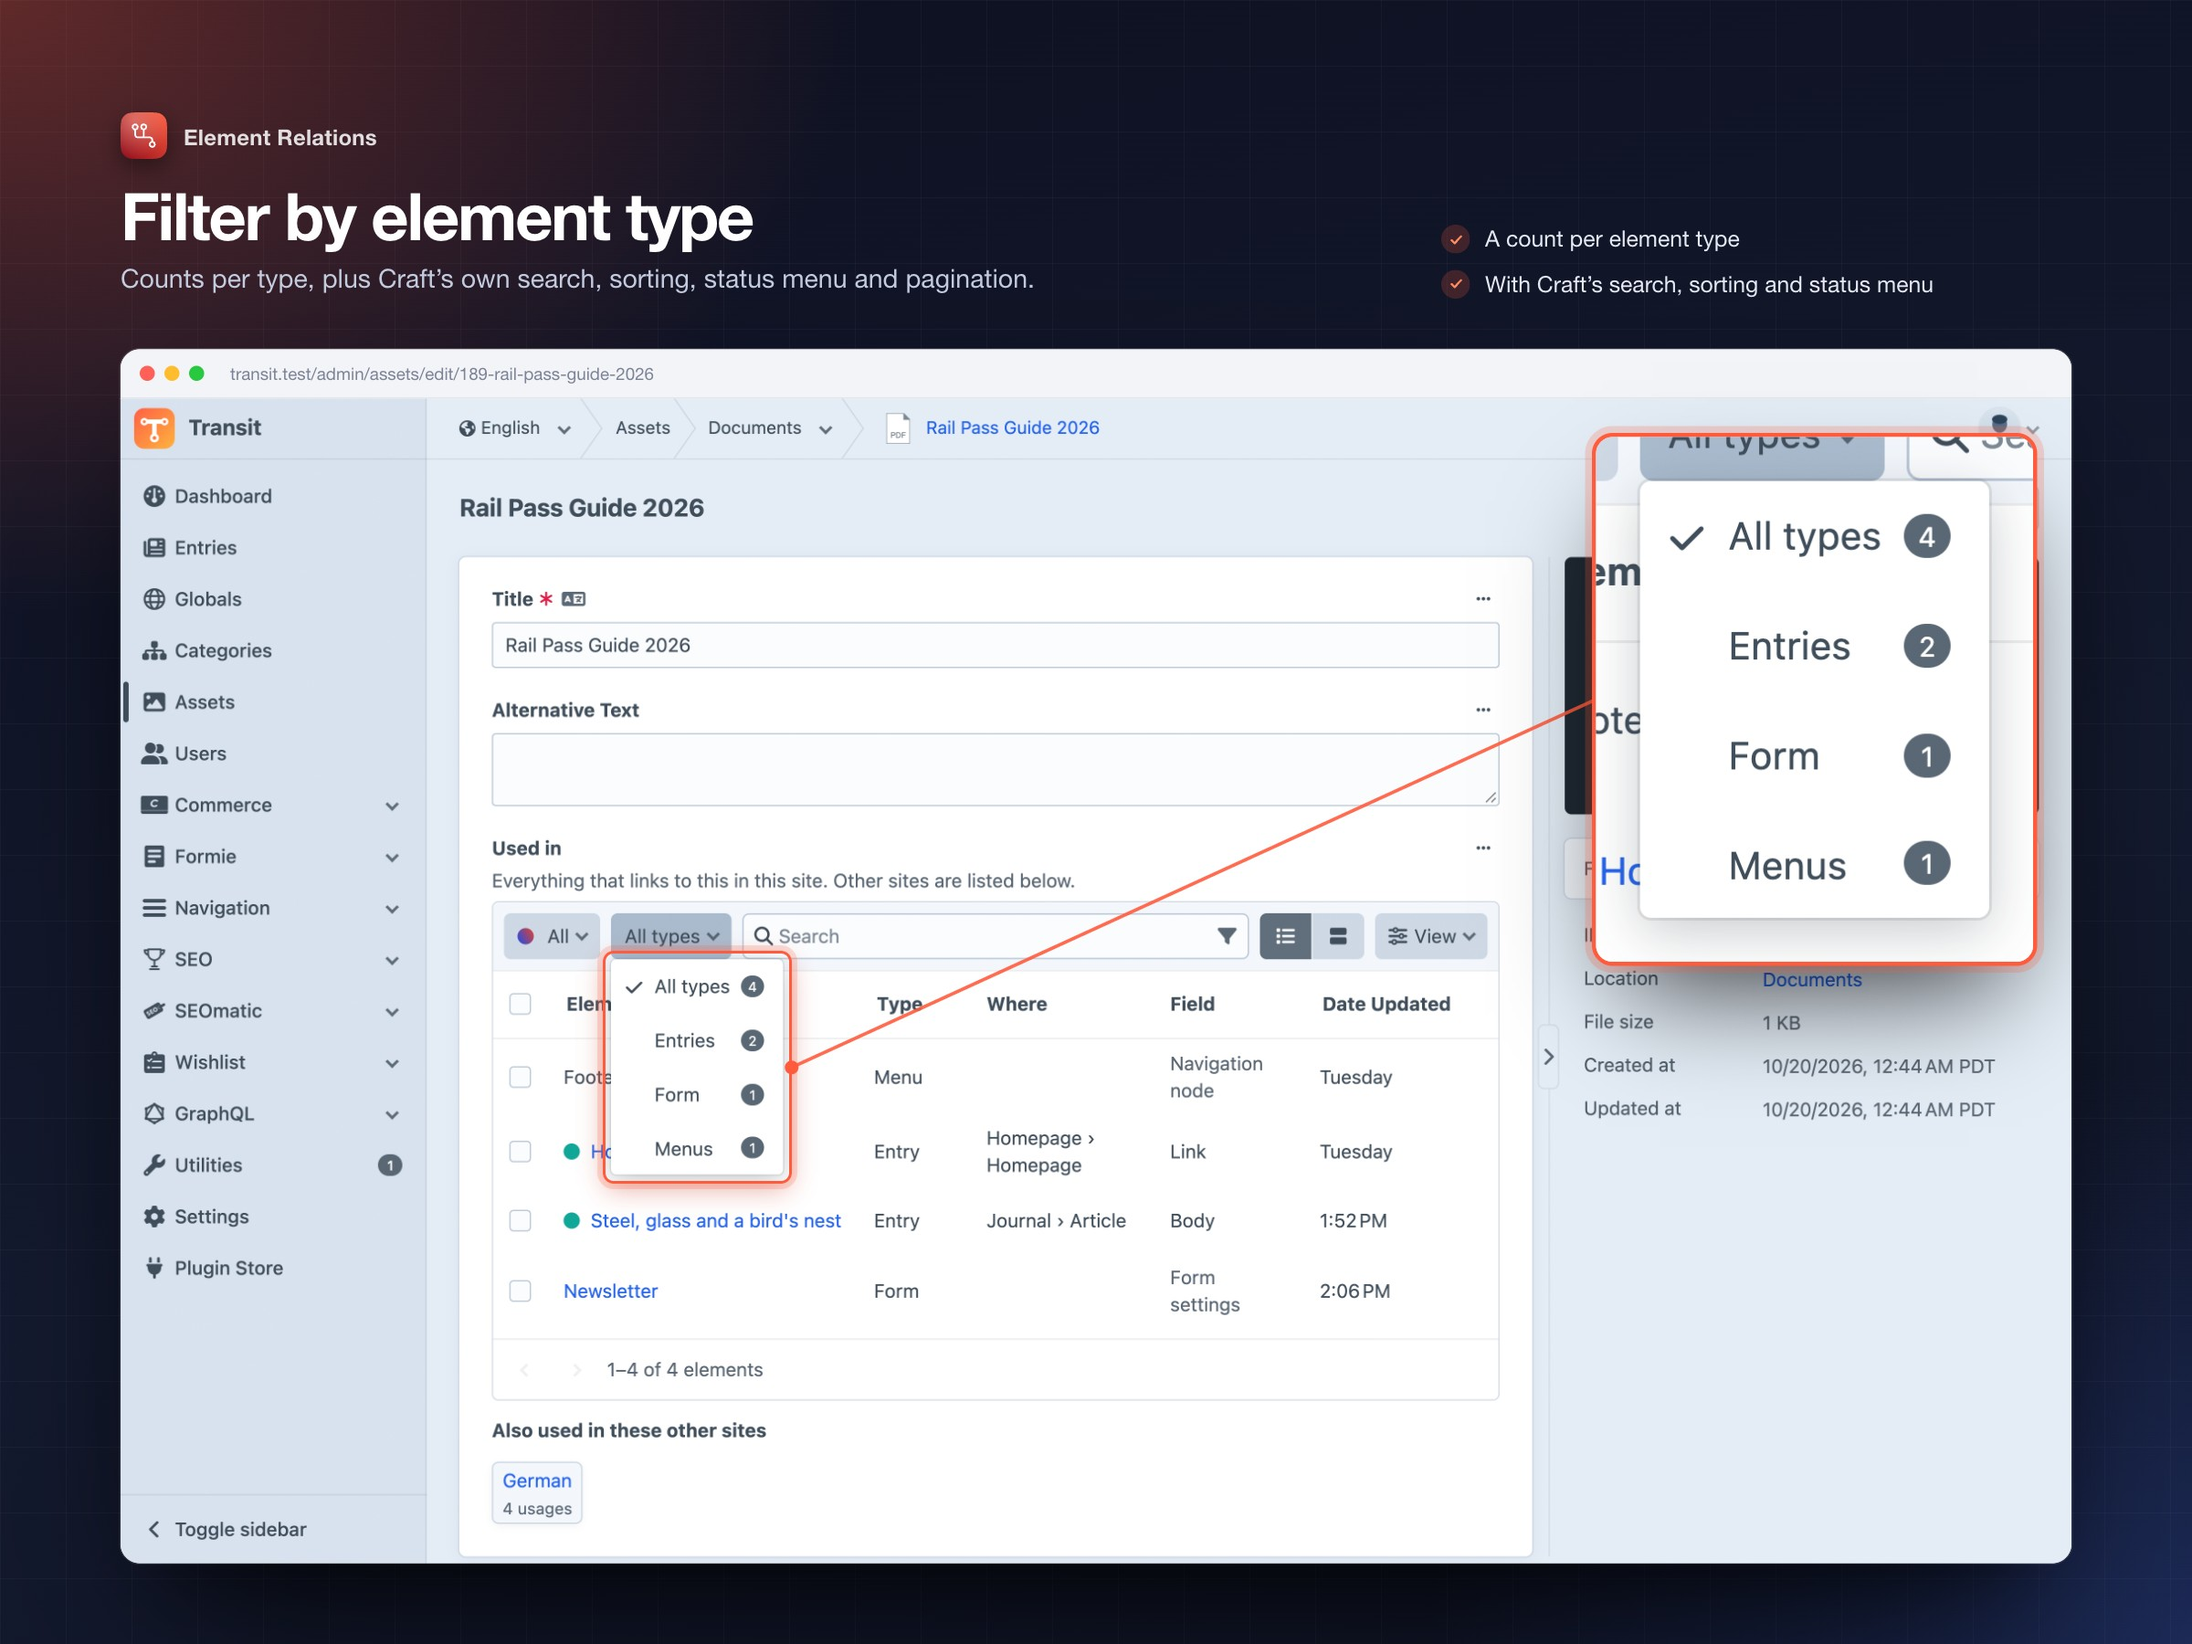
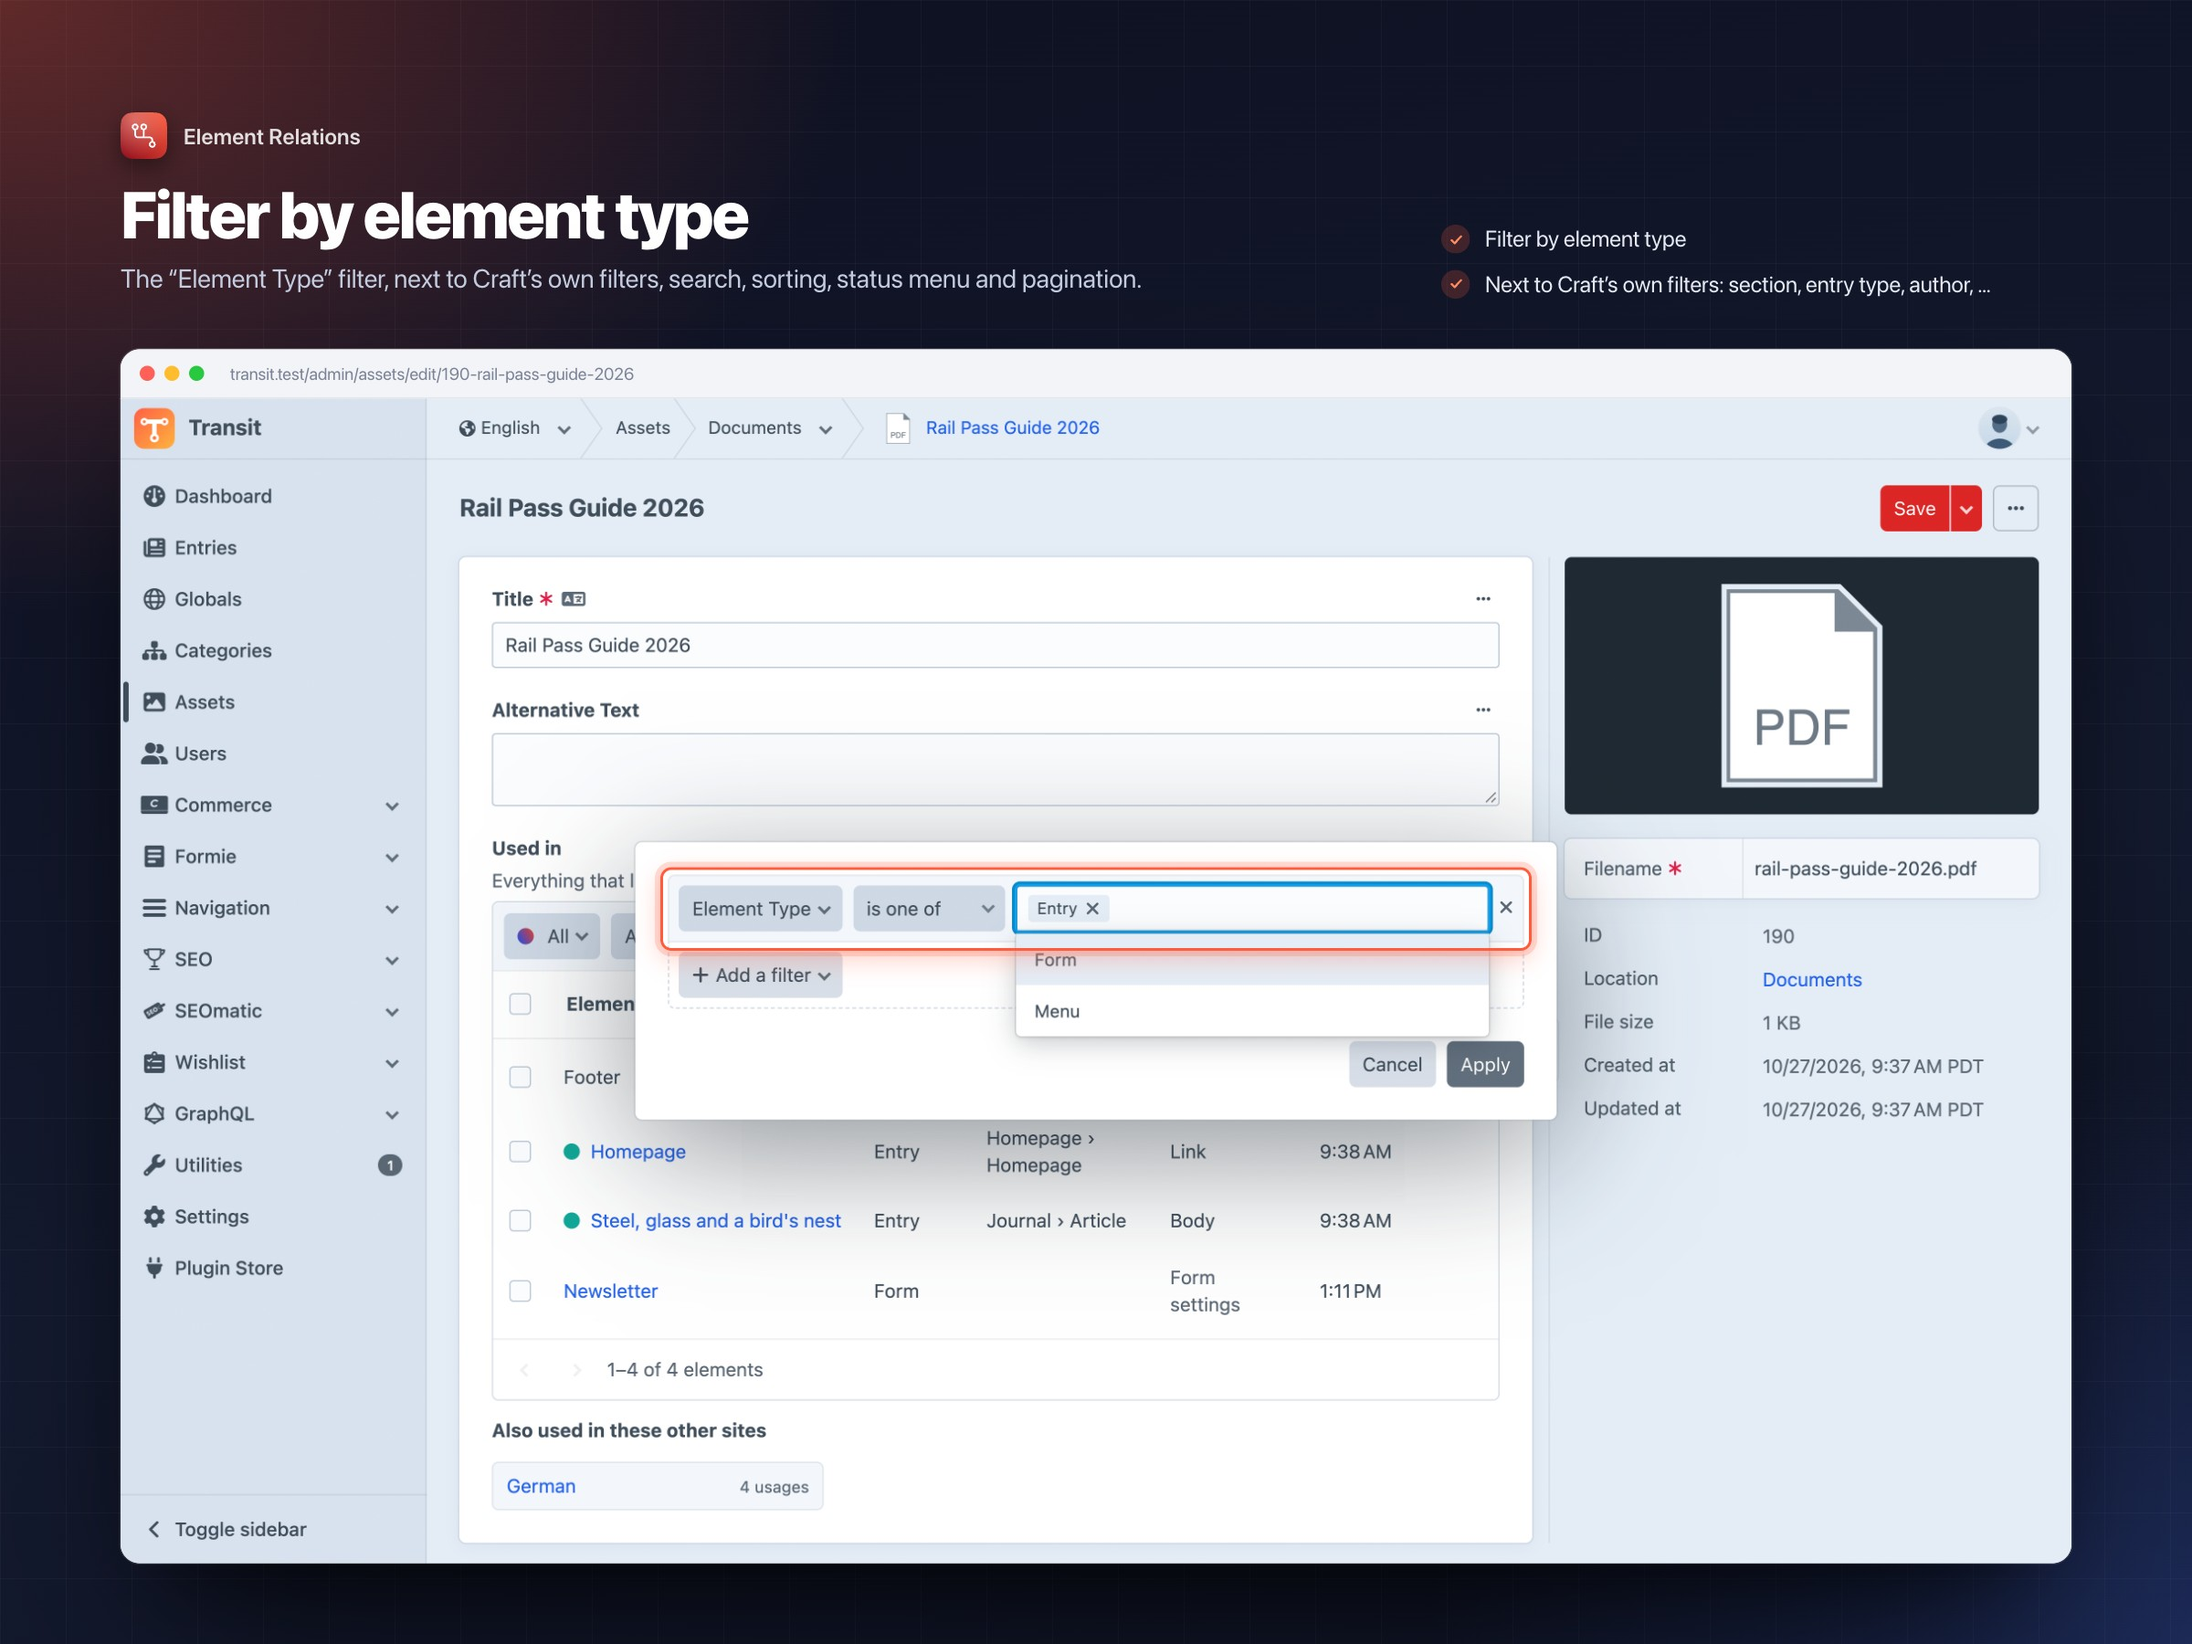
Element Type filter offers only the list's types, also after Craft's condition builder re-renders it; screenshot of the filter instead of the type dropdown

diff --git a/src/elements/conditions/UsageCondition.php b/src/elements/conditions/UsageCondition.php
@@ -48,6 +48,32 @@ class UsageCondition extends ElementCondition
         ],
     ];
 
+    /**
+     * The element types of the list (Usage::listedTypes() when the filter is first built). Kept in the condition's config,
+     * which Craft's condition builder carries through its own requests (adding a rule re-renders the filter without the
+     * list's parameters), so the rules offered and the Element Type options stay the list's.
+     * @var list<class-string<\craft\base\ElementInterface>>|null
+     */
+    public ?array $listedTypes = null;
+
+    public function init(): void
+    {
+        parent::init();
+        $this->listedTypes ??= Usage::listedTypes(); // when built; the builder's requests configure it from the config
+    }
+
+    /** @return list<class-string<\craft\base\ElementInterface>> */
+    public function getListedTypes(): array
+    {
+        return $this->listedTypes ?? [];
+    }
+
+    /** @return array<string, mixed> */
+    protected function config(): array
+    {
+        return parent::config() + ['listedTypes' => $this->getListedTypes()];
+    }
+
     /** Craft's group rules of categories and tags both set groupId; category and tag group ids overlap, so each goes to its own type. */
     public function modifyQuery(\craft\elements\db\ElementQueryInterface $query): void
     {
@@ -74,7 +100,7 @@ class UsageCondition extends ElementCondition
     {
         // the list's own base rule, and the element type (also when the list has only one)
         $rules = [UsesElementConditionRule::class, ElementTypeConditionRule::class, ...parent::selectableConditionRules()];
-        foreach (Usage::listedTypes() as $type) {
+        foreach ($this->getListedTypes() as $type) {
             foreach (self::RULES[$type] ?? [] as $rule) {
                 if (class_exists($rule) && !in_array($rule, $rules, true)) {
                     $rules[] = $rule;

diff --git a/dev/smoke/filter-menus.php b/dev/smoke/filter-menus.php
@@ -44,9 +44,13 @@ return function (array $ctx): void {
 
     // the filter's "Element Type" rule: the list's types as options, matching an element (also one hidden from the user)
     Usage::$listedTypes = [Entry::class, craft\elements\Asset::class];
-    $rule = new internetztube\elementRelations\elements\conditions\ElementTypeConditionRule(['operator' => 'in', 'values' => [Entry::class]]);
+    $condition = Usage::createCondition();
+    Usage::$listedTypes = null; // what Craft's condition builder knows when it re-renders the filter (adding a rule)
+    $rebuilt = Usage::createCondition();
+    Craft::configure($rebuilt, $condition->getBuilderConfig()); // the builder carries the condition's config along
+    $rule = $rebuilt->createConditionRule(['class' => internetztube\elementRelations\elements\conditions\ElementTypeConditionRule::class, 'operator' => 'in', 'values' => [Entry::class]]);
     $html = withWebRequest(fn() => $rule->getHtml());
     $asset = craft\elements\Asset::find()->one();
-    check(str_contains($html, 'Entry') && str_contains($html, 'Asset') && $rule->matchElement($b) && !$rule->matchElement($asset) && $rule->matchElement(internetztube\elementRelations\elements\RestrictedUsage::fromElement($b)), 'the Element Type rule offers the list\'s types and matches by type, also an element hidden from the user');
-    Usage::$listedTypes = null;
+    check(str_contains($html, 'Entry') && str_contains($html, 'Asset') && !str_contains($html, 'Category'), 'the Element Type rule offers only the list\'s types, also after the filter is re-rendered by Craft\'s condition builder');
+    check($rule->matchElement($b) && !$rule->matchElement($asset) && $rule->matchElement(internetztube\elementRelations\elements\RestrictedUsage::fromElement($b)), 'it matches by type, also an element hidden from the user');
 };

diff --git a/src/elements/conditions/ElementTypeConditionRule.php b/src/elements/conditions/ElementTypeConditionRule.php
@@ -32,13 +32,23 @@ class ElementTypeConditionRule extends BaseMultiSelectConditionRule implements E
     /** @return list<array{value: string, label: string}> */
     protected function options(): array
     {
-        return array_map(fn(string $type): array => ['value' => $type, 'label' => $type::displayName()], Usage::listedTypes());
+        return array_map(fn(string $type): array => ['value' => $type, 'label' => $type::displayName()], $this->listedTypes());
+    }
+
+    /**
+     * The list's types, from its filter (they survive the condition builder's own requests, see UsageCondition).
+     * @return list<class-string<ElementInterface>>
+     */
+    private function listedTypes(): array
+    {
+        $condition = $this->getCondition();
+        return $condition instanceof UsageCondition ? $condition->getListedTypes() : Usage::listedTypes();
     }
 
     public function modifyQuery(ElementQueryInterface $query): void
     {
         $values = $this->getValues();
-        $types = $this->operator === self::OPERATOR_NOT_IN ? array_values(array_diff(Usage::listedTypes(), $values)) : $values;
+        $types = $this->operator === self::OPERATOR_NOT_IN ? array_values(array_diff($this->listedTypes(), $values)) : $values;
         // no type left: nothing (an empty param would not filter at all)
         Craft::configure($query, ['elementTypes' => $types ?: ['-']]);
     }

diff --git a/dev/TESTS.md b/dev/TESTS.md
@@ -344,7 +344,8 @@ Generated by `dev/tests-md.php` from the last `dev/dev.sh ci` run; one line per 
 - type dropdown shows counts as Craft badges
 - no site dropdown: the field lists the element in the site it is edited in
 - Page B (entries only): no type dropdown
-- the Element Type rule offers the list's types and matches by type, also an element hidden from the user
+- the Element Type rule offers only the list's types, also after the filter is re-rendered by Craft's condition builder
+- it matches by type, also an element hidden from the user
 
 ### Formie
 
